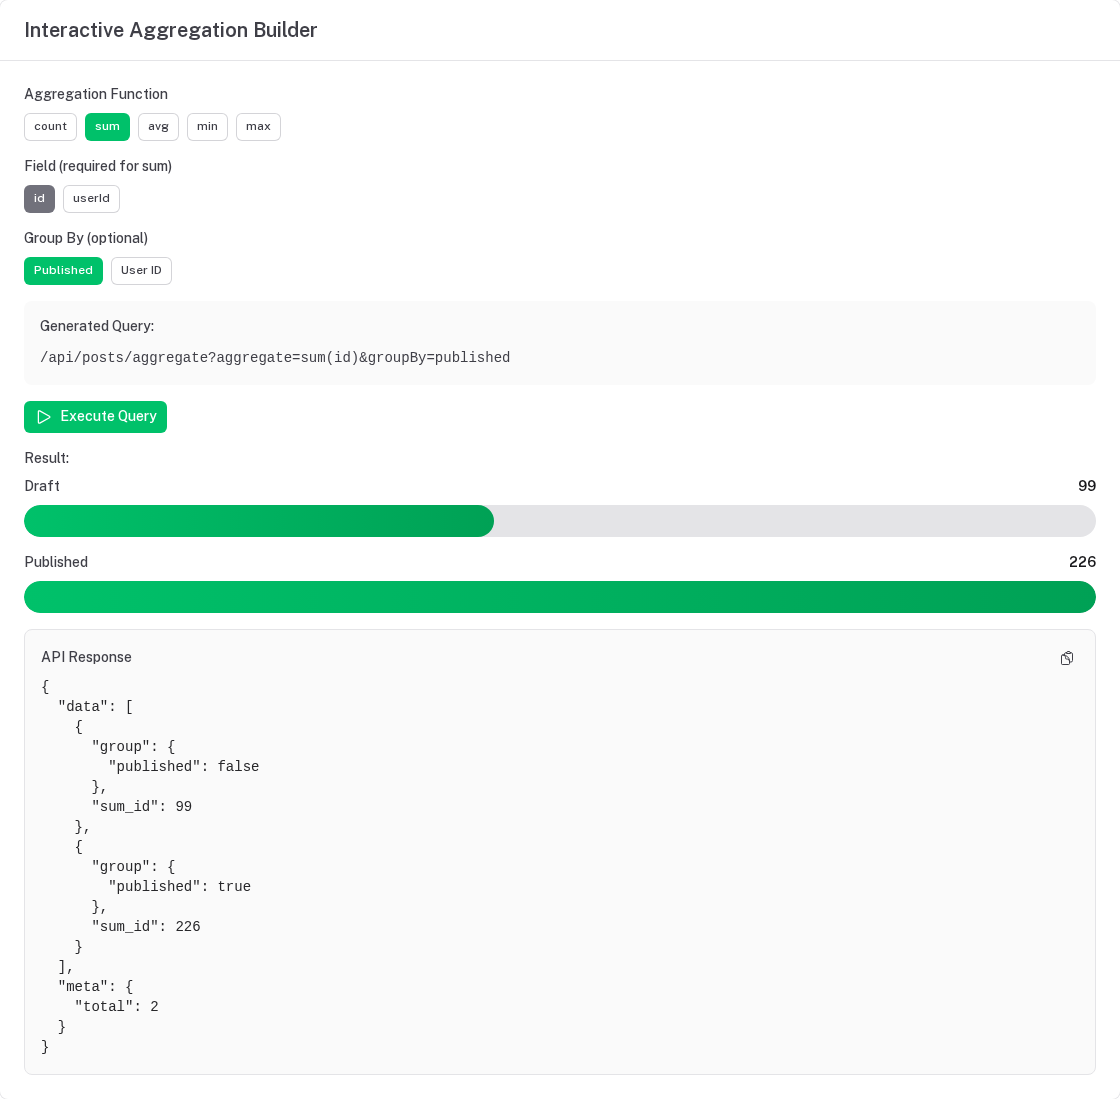
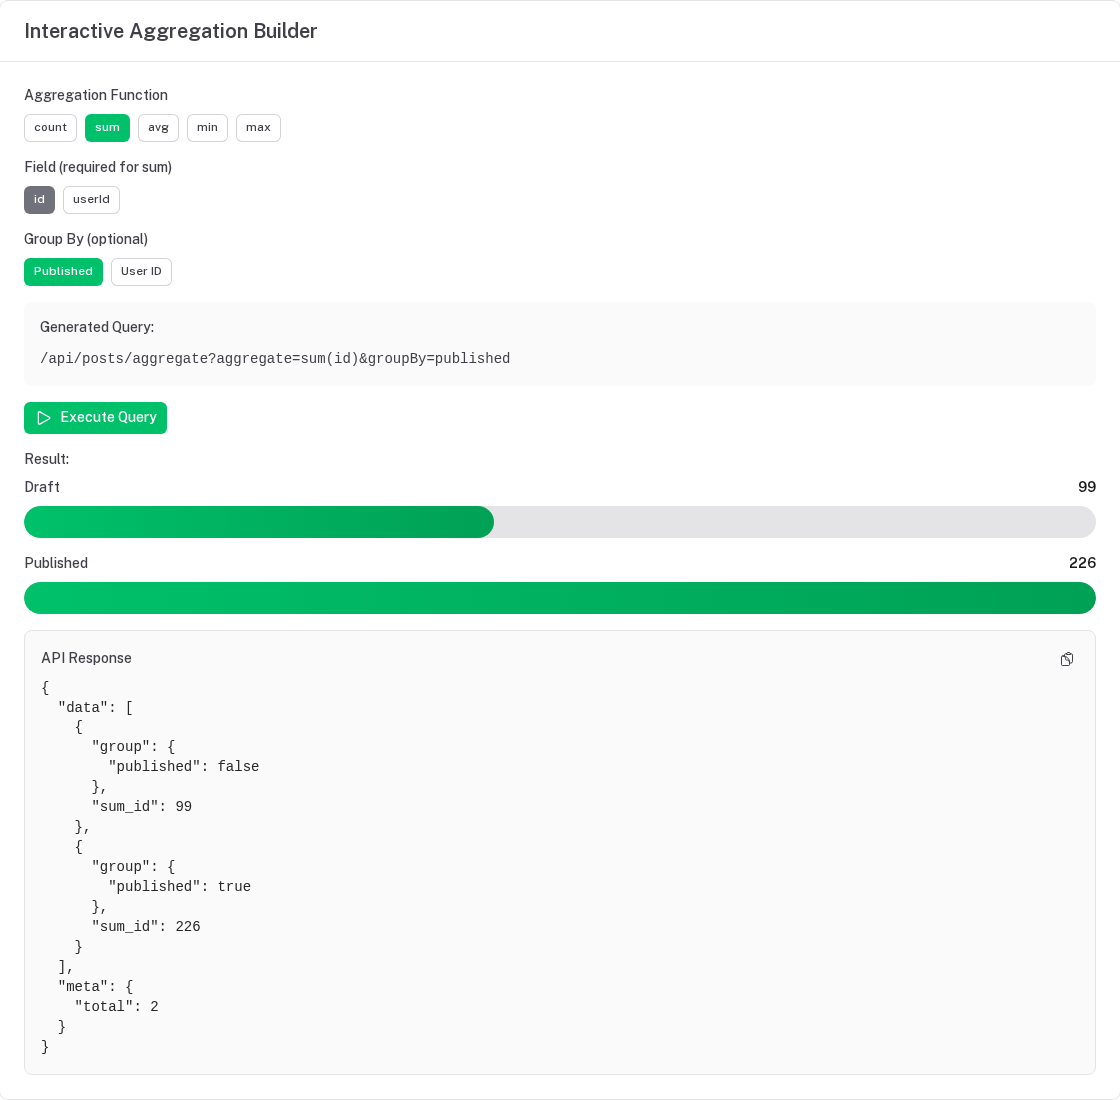
docs(docs): a date-bucket groupBy on the aggregations demo, with its screenshot
The playground's aggregations page gets a Posts Per Day card (groupBy=createdAt:day), photographed as
api-date-buckets and shown under Group By Date Buckets. The M2M page shows the article edit form, whose
relations go through junctions found by their foreign keys. api-aggregations is re-taken: the builder card moved
down the page.

diff --git a/apps/playground/app/pages/demo/aggregations.vue b/apps/playground/app/pages/demo/aggregations.vue
@@ -168,6 +168,48 @@
         </div>
       </UCard>
 
+      <!-- GroupBy date bucket -->
+      <UCard>
+        <template #header>
+          <h2 class="text-xl font-semibold">
+            Posts Per Day
+          </h2>
+          <p class="text-sm text-neutral-600 dark:text-neutral-400">
+            GET <code class="text-xs bg-neutral-100 dark:bg-neutral-800 px-1 py-0.5 rounded">/api/posts/aggregate?aggregate=count&groupBy=createdAt:day</code>
+          </p>
+        </template>
+
+        <div v-if="dayGroupLoading">
+          <USkeleton class="h-64" />
+        </div>
+
+        <div
+          v-else-if="dayGroupError"
+          class="text-red-600"
+        >
+          Error: {{ dayGroupError }}
+        </div>
+
+        <div
+          v-else
+          class="space-y-4"
+        >
+          <p class="text-sm text-neutral-600 dark:text-neutral-400">
+            A date column cut into buckets (<code>hour</code>, <code>day</code>, <code>week</code>, <code>month</code>,
+            <code>year</code>), returned in date order:
+          </p>
+
+          <AggregationChart :data="dayGroupChartData" />
+
+          <div class="mt-4">
+            <p class="text-sm font-medium mb-2">
+              Raw Data:
+            </p>
+            <ApiResponse :data="dayGroupData" />
+          </div>
+        </div>
+      </UCard>
+
       <!-- Interactive Builder -->
       <UCard>
         <template #header>
@@ -315,6 +357,23 @@ const {
 const userGroupChartData = computed(() => {
   return (userGroupData.value?.data ?? []).map(row => ({
     label: `User ${row.group?.userId}`,
+    value: Number(row.count)
+  }))
+})
+
+// GroupBy a date bucket: the group comes back as `createdAt_day` ('2026-01-16')
+const {
+  data: dayGroupData,
+  isLoading: dayGroupLoading,
+  error: dayGroupError
+} = useAutoApiAggregate('posts', {
+  aggregate: 'count',
+  groupBy: 'createdAt:day'
+})
+
+const dayGroupChartData = computed(() => {
+  return (dayGroupData.value?.data ?? []).map(row => ({
+    label: String(row.group?.createdAt_day),
     value: Number(row.count)
   }))
 })

diff --git a/apps/playground/test/visual.spec.ts b/apps/playground/test/visual.spec.ts
@@ -200,6 +200,11 @@ const API_SHOTS: Shot[] = [
       await expect(builder).toContainText('sum_id')
     }
   },
+  // groupBy on a date bucket: the seeded posts are an hour apart from 2026-01-16 09:00 UTC, so two days
+  {
+    name: 'api-date-buckets', path: '/demo/aggregations', role: 'admin', says: '2026-01-17',
+    crop: page => card(page, 'Posts Per Day')
+  },
   {
     name: 'api-bulk-operations', path: '/demo/bulk-operations', role: 'admin', says: 'Post 20',
     crop: page => card(page, 'Bulk Delete'),

diff --git a/apps/docs/content/2.auto-api/10.aggregations.md b/apps/docs/content/2.auto-api/10.aggregations.md
@@ -232,6 +232,8 @@ bucket order:
 }
 ```
 
+![The playground's Posts Per Day card: groupBy=createdAt:day gives a bar for 2026-01-16 (15 posts) and one for 2026-01-17 (10), and the response's groups are named createdAt_day](/screenshots/api-date-buckets-1440.png)
+
 Buckets work on every engine: SQLite (timestamps stored as seconds or milliseconds, or ISO text), Postgres and
 MySQL. They are computed in the database's time zone — UTC unless you changed it. Any other column is a 400.
 

diff --git a/apps/docs/content/2.auto-api/12.m2m-relationships.md b/apps/docs/content/2.auto-api/12.m2m-relationships.md
@@ -13,6 +13,8 @@ key columns named after them (`articleId`, `article_id`, `idArticle`, …). Conf
 
 Labels, help text and display fields for the admin UI are configured in the same place.
 
+![The playground's article edit form: Categories and Tags cards edit the article's relations through the articleCategories and articleTags junctions, which are found by their foreign keys and registered nowhere](/screenshots/admin-edit-1440.png)
+
 ## Quick Start
 
 ```typescript
